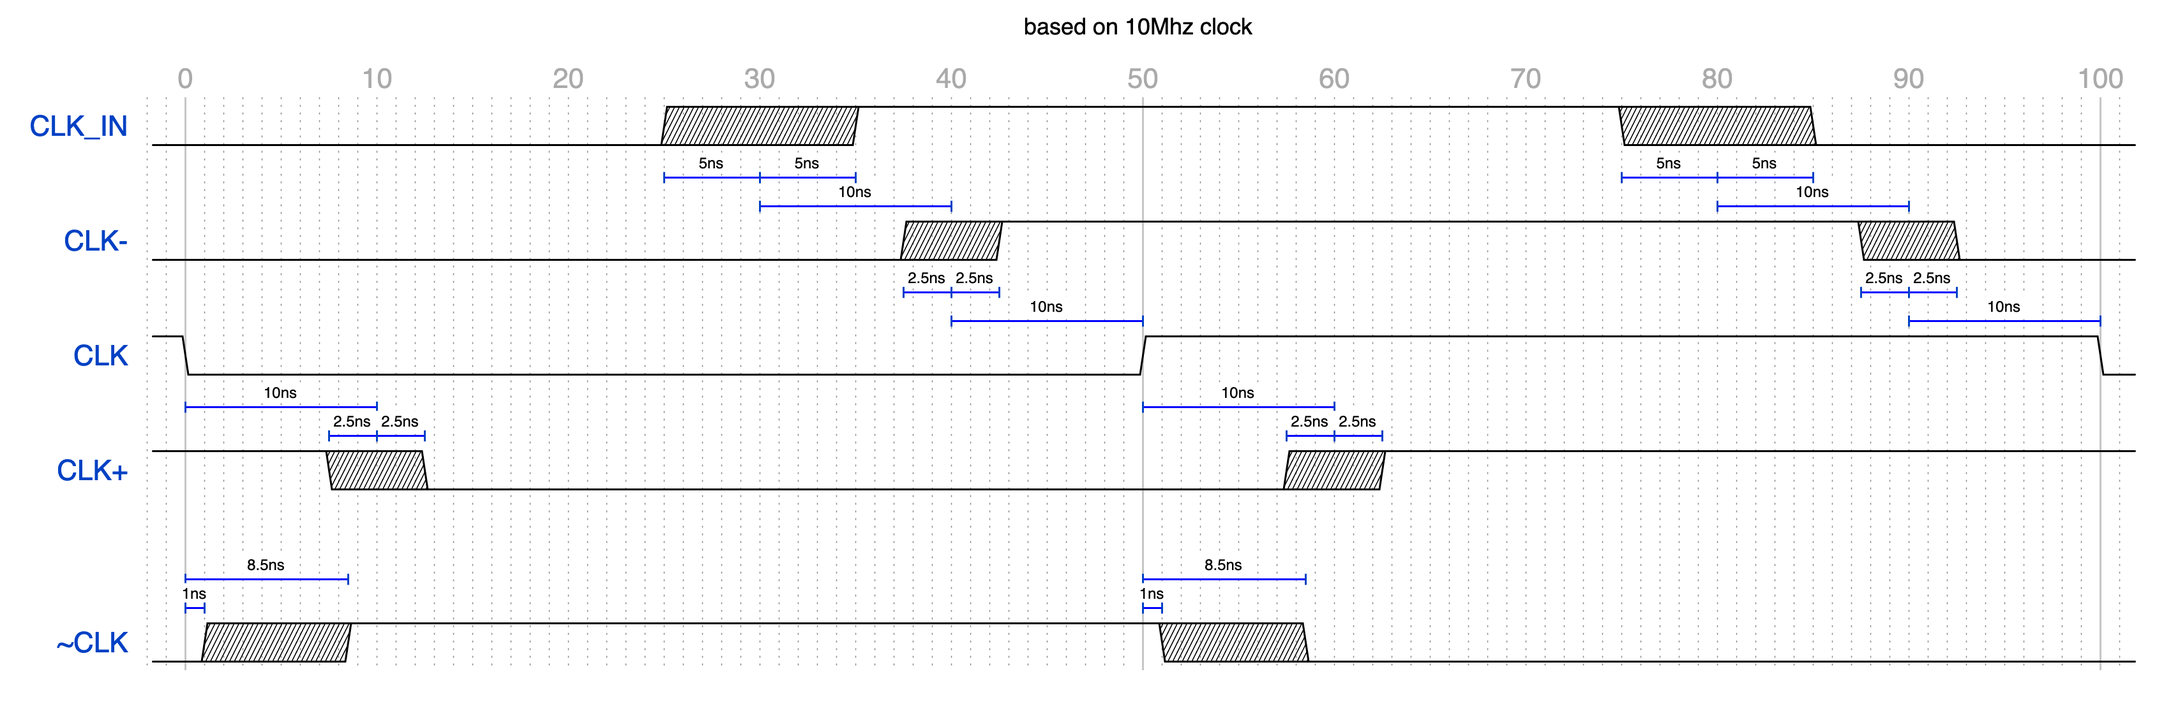
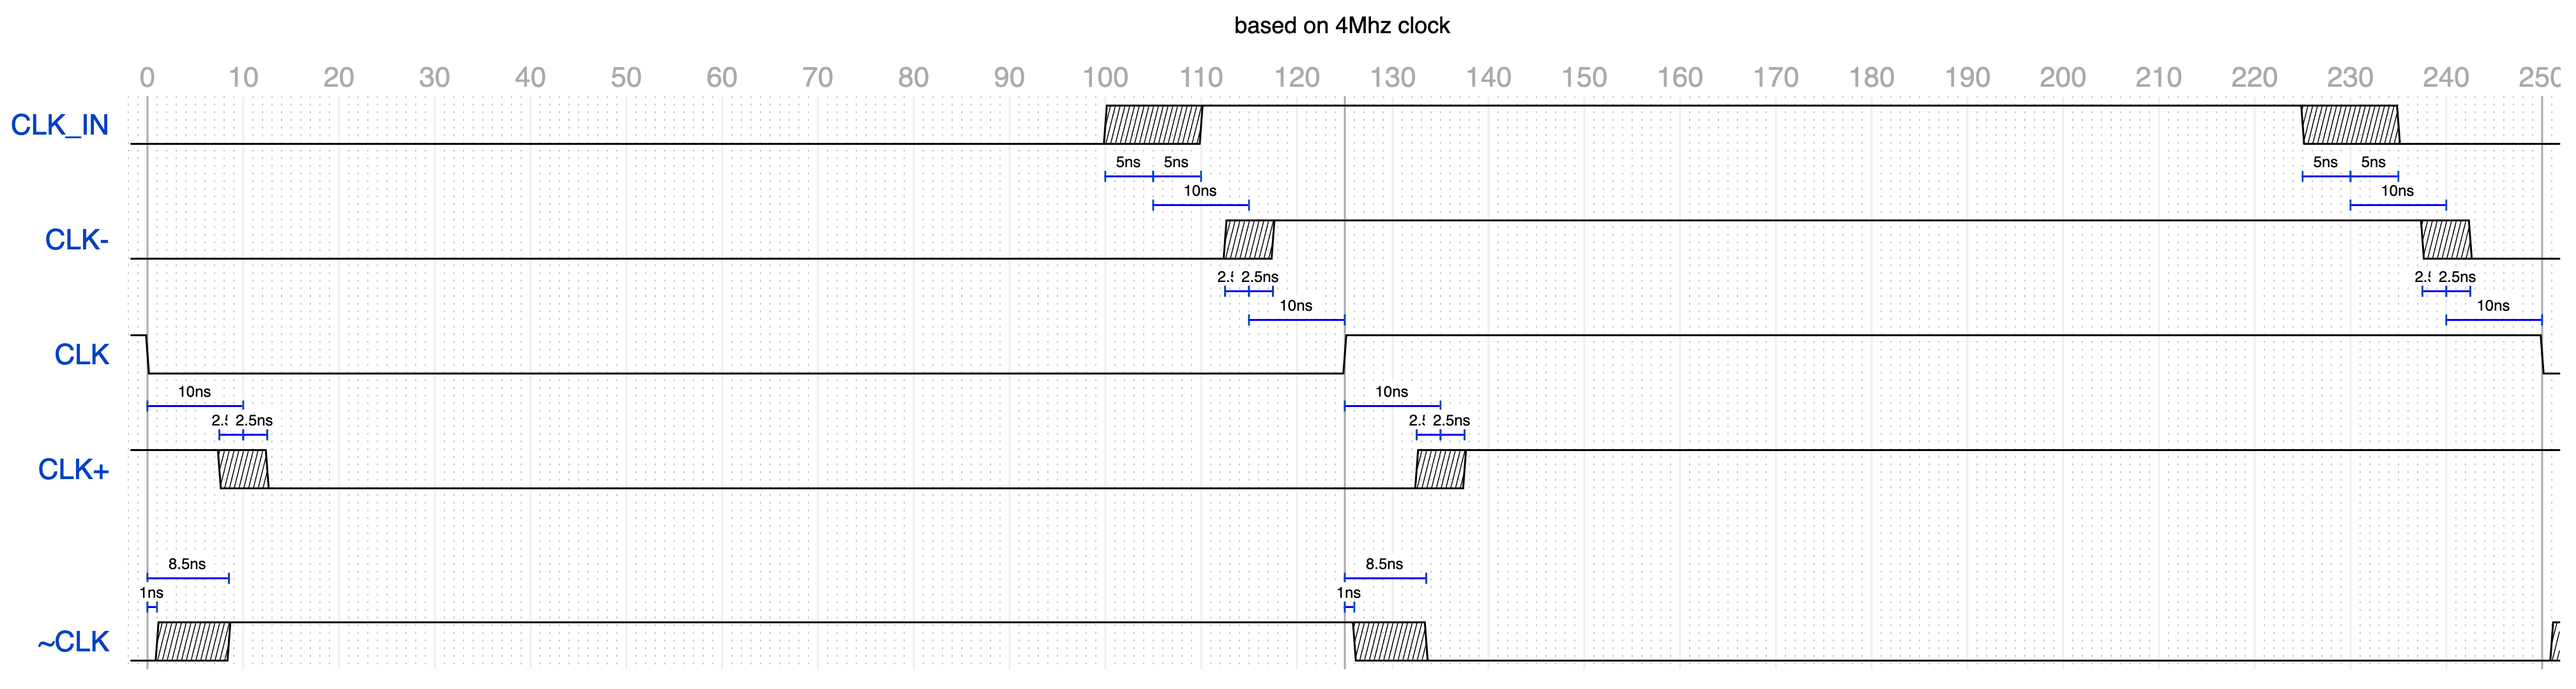
Fix

diff --git a/README.md b/README.md
@@ -435,34 +435,36 @@ Uses [custom fork](https://github.com/adrienkohlbecker/wavedrom)
 ```js
 {
   signal: [
-    { name: 'CLK', wave: '1.0(50)1(50)0.', phase: 0.20 },
-    { nodes: ['...(45)Ξ(5)Ο(0.5)Ό'], phase: 0.45 },
-    { name: 'RDY_IN', wave: 'z..(45)6(5.5)z(51.5)', data: ['IN'], phase: 0.20 },
-    { nodes: ['...(50)B(10.5)Π', '...(50)E(1)F'], phase: 0.45 },
-    { name: 'RDY (registered)', wave: '4..(51)x(9.5)4(41.5)', data: ['RDY (reg)', 'RDY (reg)'], phase: 0.20 },
-    { nodes: ['...(60.5)Σ(30)I'], phase: 0.45 },
-    { name: 'RDY', wave: '3..(51)x(39.5)3(11.5)', data: ['RDY', 'RDY'], phase: 0.20 },
-    { nodes: ['..Ύ(10)Д(80)Ё(10)Ж'], phase: 0.45 },
-    { name: 'RDY (cpu in)', wave: '6..(10)z(80)6(12)', data: ['RDY', 'RDY'], phase: 0.20 },
+    { name: 'CLK_IN', wave: '0..(100)x(10)1(115)x(10)0(17)', phase: 0.20 },
+    { nodes: ['...(100)Ο(5)Ό(5)G(115)H(5)R(5)P', '...(105)Ν(10)Ά(115)Β(10)Ξ'], phase: 0.9 },
+    { name: 'CLK-', wave: '0..(112.5)x(5)1(120)x(5)0..(7.5)', phase: 0.20 },
+    { nodes: ['...(112.5)Ё(2.5)Ж(2.5)S(120)T(2.5)Ћ(2.5)Δ', '...(115)L(10)K(115)M(10)Σ'], phase: 0.9 },
+    { name: 'CLK', wave: '1.0(125)1(125)0.', phase: 0.20 },
+    { nodes: ['..Θ(10)Λ(115)Њ(10)Ќ', '...(7.5)Љ(2.5)Є(2.5)Υ(120)Ю(2.5)Ψ(2.5)Ω'], phase: 0.9 },
+    { name: 'CLK+', wave: '1..(7.5)x(5)0(120)x(5)1..(112.5)', phase: 0.20 },
+    {},
+    { nodes: ['..Ε(8.5)Ι(116.5)Κ(8.5)Μ', '..Ρ(1)Τ(124)Χ(1)А'], phase: 0.9 },
+    { name: '~CLK', wave: '0..(1)x(7.5)1(117.5)x(7.5)0..(115.5)x', phase: 0.20 },
   ],
   edge: [
-    'Ξ+Ο 5ns', 'Ο+Ό 0.5ns',
-    'B+Π 10.5ns', 'E+F 1ns',
-    'Σ+I 30ns (approx. measured)',
-    'Ύ+Д 10ns', 'Ё+Ж 10ns',
+    'Ν+Ά 10ns', 'Β+Ξ 10ns', 'Ο+Ό 5ns', 'Ό+G 5ns', 'H+R 5ns', 'R+P 5ns',
+    'L+K 10ns', 'M+Σ 10ns', 'Ё+Ж 2.5ns', 'Ж+S 2.5ns', 'T+Ћ 2.5ns', 'Ћ+Δ 2.5ns',
+    'Θ+Λ 10ns', 'Њ+Ќ 10ns', 'Љ+Є 2.5ns', 'Є+Υ 2.5ns', 'Ю+Ψ 2.5ns', 'Ψ+Ω 2.5ns',
+    'Ε+Ι 8.5ns', 'Κ+Μ 8.5ns', 'Ρ+Τ 1ns', 'Χ+А 1ns'
   ],
   config: {
-    skin: 'narrower',
+    skin: 'narrowerer',
     lines: {
       offset: 2,
-      every: 50
+      every: 125,
+      every_muted: 10,
     },
-    background: 'white'
+    background: 'white',
   },
   head: {
     tick: -2,
     every: 10,
-    text: ['tspan', { "font-size": '12px' }, 'based on 10Mhz clock; assumes BE=1']
+    text: ['tspan', { "font-size": '12px' }, 'based on 4Mhz clock']
   }
 }
 ```
